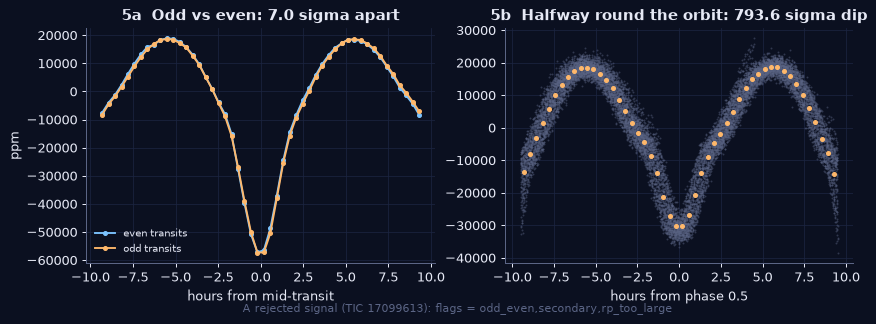
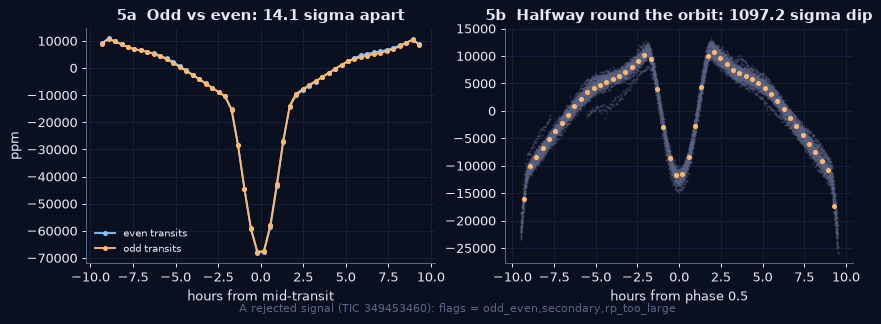
exoplanet_search site: Learn figures from the full sector-70 run; list up to 80 candidates

diff --git a/exoplanet_search/exosearch/export.py b/exoplanet_search/exosearch/export.py
@@ -69,7 +69,7 @@ def _plot(r, site, dpi=80):
     return None
 
 
-def build(site=SITE, max_candidates=40, max_rejected=12, plots_on=True):
+def build(site=SITE, max_candidates=80, max_rejected=12, plots_on=True):
     con = store.connect()
     df = store.frame(con)
     runs = store.runs(con)
@@ -162,7 +162,7 @@ def build(site=SITE, max_candidates=40, max_rejected=12, plots_on=True):
 def main():
     ap = argparse.ArgumentParser()
     ap.add_argument("--site", type=Path, default=SITE)
-    ap.add_argument("--max-candidates", type=int, default=40)
+    ap.add_argument("--max-candidates", type=int, default=80)
     ap.add_argument("--no-plots", action="store_true")
     a = ap.parse_args()
     out = build(a.site, a.max_candidates, plots_on=not a.no_plots)
